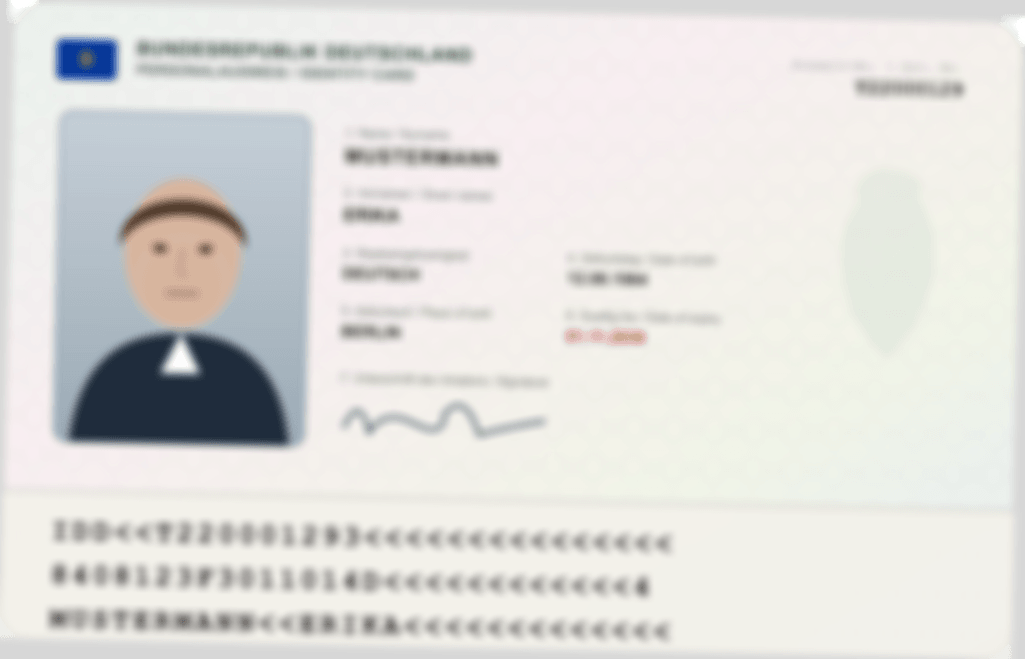
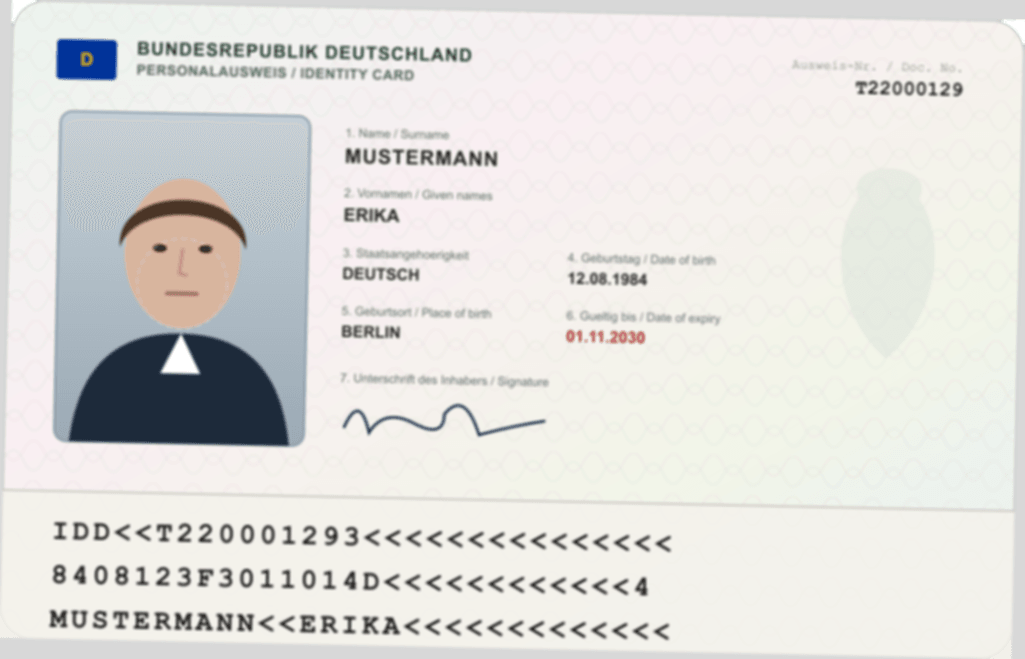
refactor: update fixture generation scripts and golden dataset evaluation expectations

diff --git a/scripts/fixtures/generate-authentic-grundbuch-scan.ts b/scripts/fixtures/generate-authentic-grundbuch-scan.ts
@@ -32,7 +32,7 @@ async function generateAuthenticGrundbuchScan() {
       <text x="100" y="90" font-size="14" font-weight="bold" fill="#444">AMTSGERICHT KÖLN</text>
       <text x="100" y="110" font-size="12" fill="#666">Grundbuchamt • Reichenspergerplatz 1, 50670 Köln</text>
       <text x="${width - 100}" y="90" font-size="13" text-anchor="end" fill="#333">Druckdatum: 10.03.2026</text>
-      <text x="${width - 100}" y="110" font-size="13" font-weight="bold" text-anchor="end" fill="#990000">SEITE 1 VON 3 (UNVOLLSTÄNDIG)</text>
+      <text x="${width - 100}" y="110" font-size="13" text-anchor="end" fill="#666">Seite 1 von 3</text>
 
       <line x1="100" y1="130" x2="${width - 100}" y2="130" stroke="#222" stroke-width="2" />
 
@@ -83,33 +83,11 @@ async function generateAuthenticGrundbuchScan() {
         <text x="860" y="45" font-weight="bold">740 m²</text>
       </g>
 
-      <!-- HINWEISKASTEN: SEITE 2 FEHLT (ABTEILUNG I EIGENTÜMER & ABTEILUNG II LASTEN) -->
-      <g transform="translate(100, 480)">
-        <rect width="1040" height="340" fill="#FFF9F7" stroke="#C0392B" stroke-width="2" stroke-dasharray="6,4" rx="8" />
-        
-        <circle cx="50" cy="50" r="24" fill="#E74C3C" />
-        <text x="50" y="60" font-size="28" font-weight="bold" fill="#FFF" text-anchor="middle">!</text>
+      <!-- ABTEILUNG III (HYPOTHEKEN, GRUNDSCHULDEN) -->
+      <rect x="100" y="480" width="${width - 200}" height="35" fill="#E8ECE9" stroke="#333" stroke-width="1.5" />
+      <text x="115" y="504" font-size="15" font-weight="bold">ABTEILUNG III (HYPOTHEKEN, GRUNDSCHULDEN, RENTENSCHULDEN)</text>
 
-        <text x="95" y="45" font-size="18" font-weight="bold" fill="#900">ACHTUNG: DOKUMENTEN-FRAGMENT / FEHLENDE ABSCHNITTE</text>
-        <text x="95" y="75" font-size="14" fill="#333">Die Folgeseite 2 des amtlichen Grundbuchblatts (Abteilung I: Eigentümer) wurde im Scan ausgelassen.</text>
-        
-        <line x1="30" y1="110" x2="1010" y2="110" stroke="#E0C0B8" stroke-width="1" />
-
-        <text x="50" y="145" font-size="14" font-weight="bold" fill="#555">Fehlende Grundbuch-Bestandteile in dieser Ausfertigung:</text>
-        
-        <text x="70" y="180" font-size="14" fill="#222">• <tspan font-weight="bold">Abteilung I (Eigentümer):</tspan> Eigentumsverhältnisse und Erwerbsgrundlage NICHT ersichtlich.</text>
-        <text x="70" y="215" font-size="14" fill="#222">• <tspan font-weight="bold">Abteilung II (Lasten &amp; Beschränkungen):</tspan> Wegerechte, Wohnungsrechte, Vormerkungen NICHT belegbar.</text>
-        
-        <rect x="50" y="250" width="940" height="60" fill="#FADBD8" rx="6" />
-        <text x="70" y="285" font-size="13" font-weight="bold" fill="#78281F">Notarielle Handlungsanweisung (§ 21 BeurkG):</text>
-        <text x="70" y="302" font-size="12" fill="#78281F">Unvollständige Grundbuchabschrift darf nicht zur Beurkundungsreife freigegeben werden. Vollständigen Auszug beiziehen.</text>
-      </g>
-
-      <!-- ABTEILUNG III (GRUNDSCHULDEN) AUF SEITE 3 -->
-      <rect x="100" y="860" width="${width - 200}" height="35" fill="#E8ECE9" stroke="#333" stroke-width="1.5" />
-      <text x="115" y="884" font-size="15" font-weight="bold">ABTEILUNG III (HYPOTHEKEN, GRUNDSCHULDEN, RENTENSCHULDEN)</text>
-
-      <g transform="translate(100, 895)" font-size="13">
+      <g transform="translate(100, 515)" font-size="13">
         <rect width="1040" height="120" fill="#FFFFFF" stroke="#333" stroke-width="1" />
         <text x="35" y="45" font-weight="bold">Lfd. Nr. 1:</text>
         <text x="140" y="45" font-weight="bold">280.000,00 EUR</text>
@@ -164,7 +142,7 @@ async function generateAuthenticGrundbuchScan() {
   console.log(
     `   - Tabellarisches Bestandsverzeichnis (AG Köln, Blatt 5412, Flurstück 88/2, 740 qm)`
   );
-  console.log(`   - Warnkasten & fehlende Abteilung I`);
+  console.log(`   - Unvollständiger Auszug (Seite 1 von 3, Abteilung I & II nicht enthalten)`);
   console.log(`   - Amtssiegel & Notar-Eingangsstempel`);
 }
 

diff --git a/scripts/fixtures/generate-authentic-id-card.ts b/scripts/fixtures/generate-authentic-id-card.ts
@@ -133,7 +133,8 @@ async function generateAuthenticIdCard(isBlurry: boolean, filename: string) {
   let sharpInstance = sharp(Buffer.from(svgCard));
 
   if (isBlurry) {
-    sharpInstance = sharpInstance.blur(4.5).rotate(1.2, { background: '#D8D8D8' });
+    // Realistischer Schwellenwert: leichte Weichzeichnung/Verwacklung statt vollständiger Unkenntlichkeit
+    sharpInstance = sharpInstance.blur(1.5).rotate(1.2, { background: '#D8D8D8' });
   }
 
   await sharpInstance.png({ quality: 90 }).toFile(outputPath);

diff --git a/src/test/eval/golden-dataset.ts b/src/test/eval/golden-dataset.ts
@@ -121,7 +121,7 @@ export const GOLDEN_DATASET: GoldenTestCase[] = [
       fields: {
         verkaeufer: {
           expectedStatus: [FIELD_STATUS.NEEDS_REVIEW, FIELD_STATUS.MISSING],
-          mustContainInSnippet: ['fehlt'],
+          mustContainInSnippet: ['Grundbuch', 'Teilauszug', 'Seite 1 von 3'],
         },
         grundbuch: {
           expectedStatus: FIELD_STATUS.NEEDS_REVIEW,
